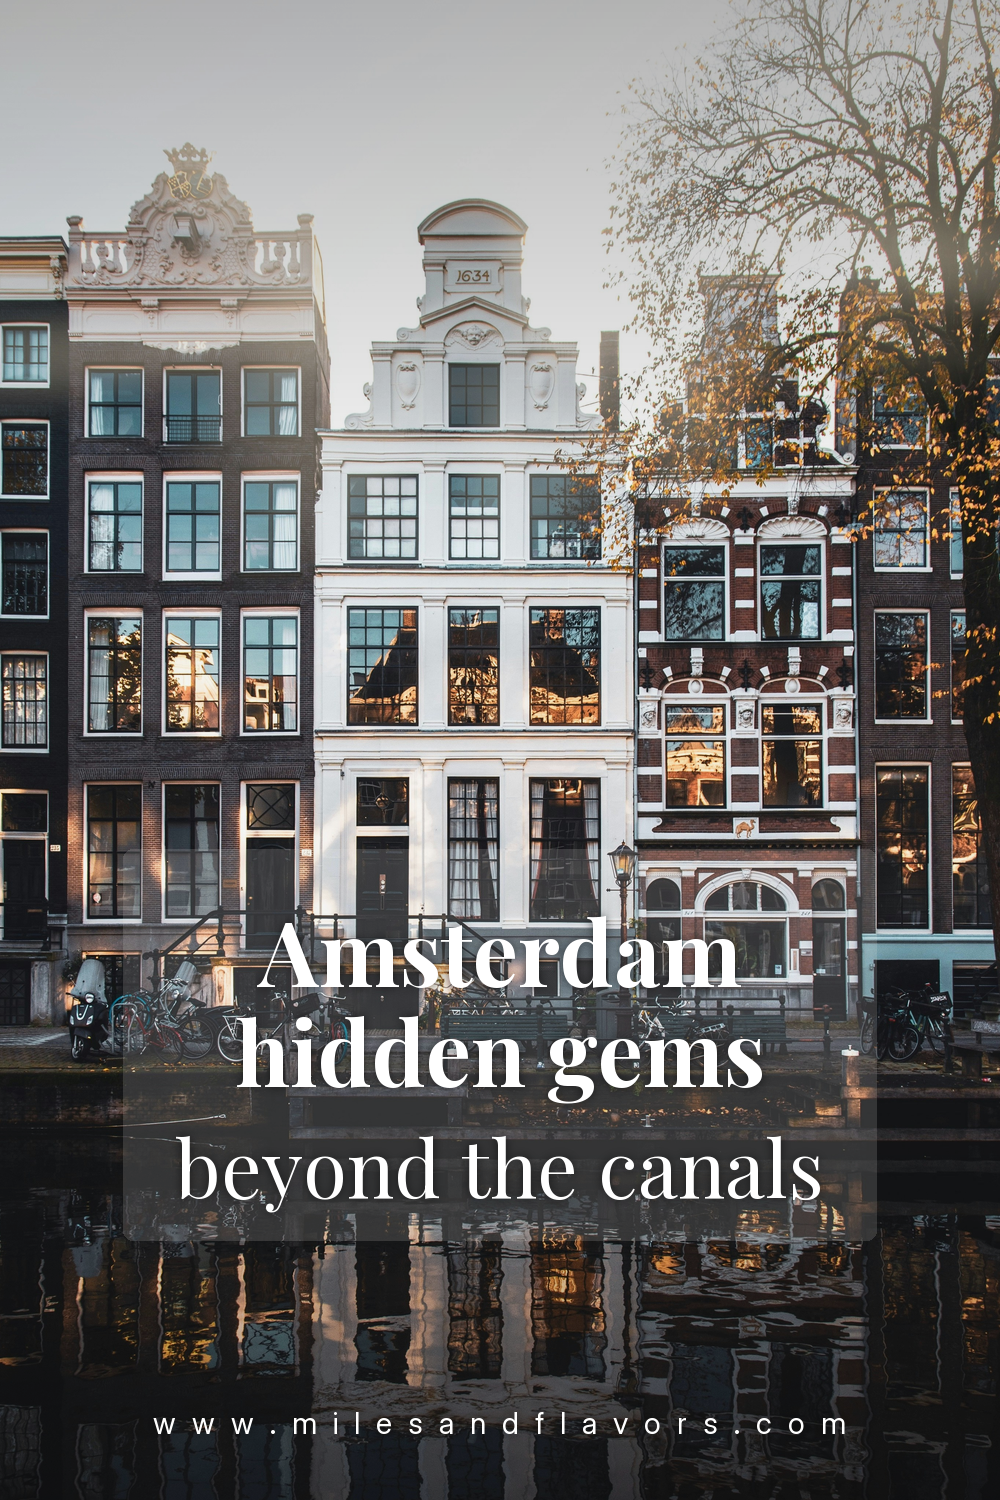
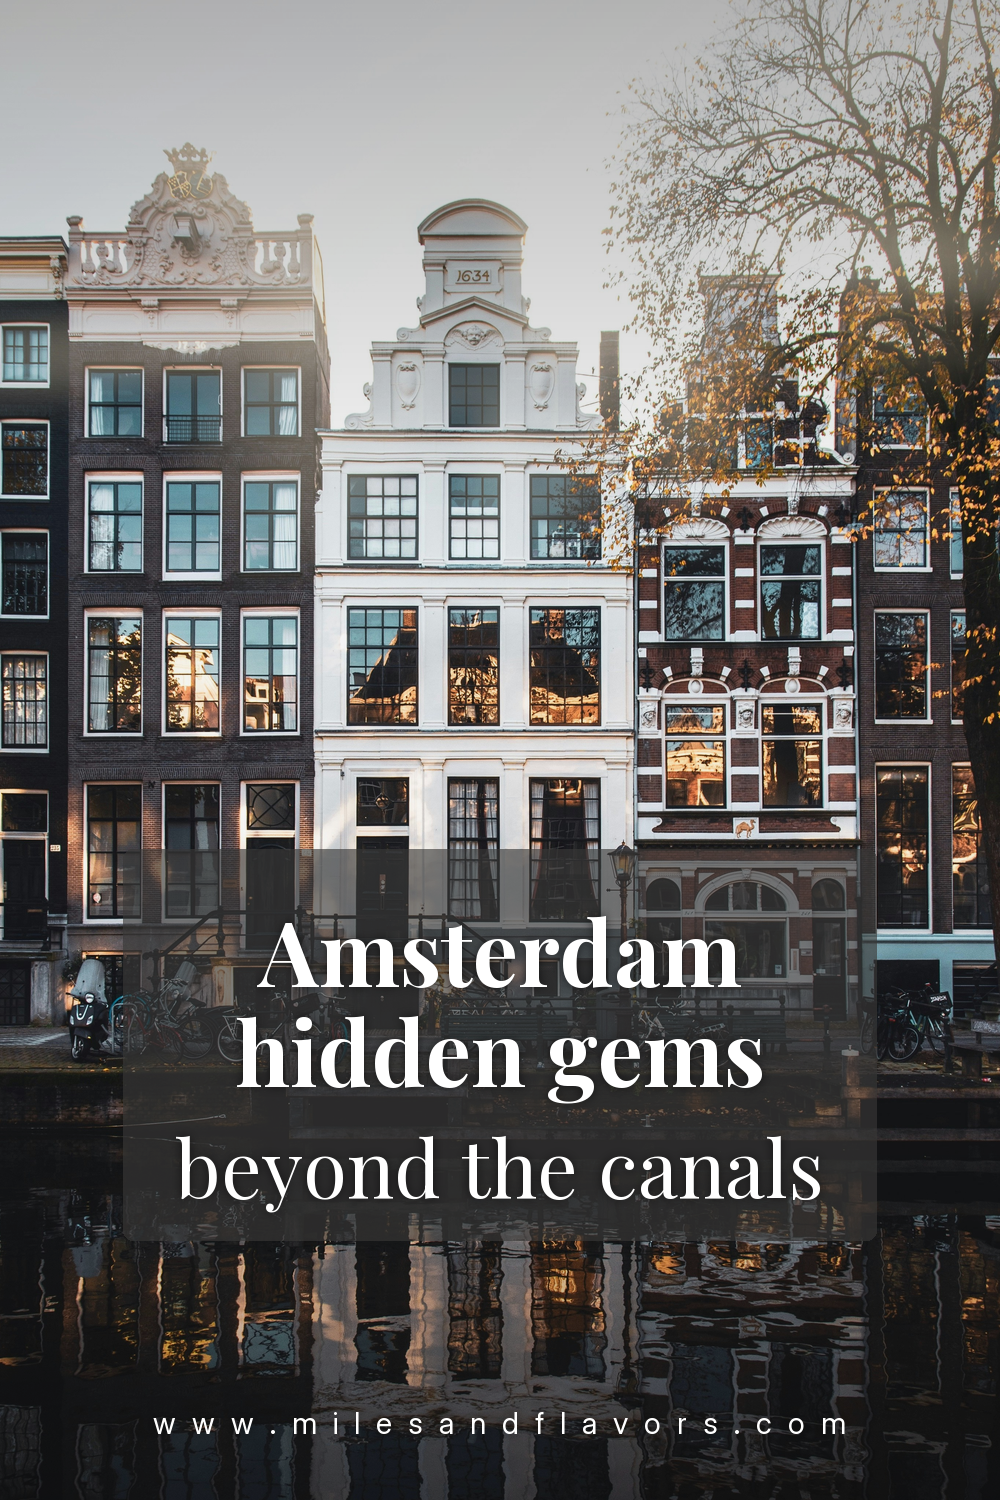
Pin tweaks: Marsa Alam + cheap flights box top; Barcelona/Dolomites/Amsterdam darker box

diff --git a/render.py b/render.py
@@ -116,7 +116,7 @@ def wrap(draw, text, fnt, maxw):
             lo = mid
     return _greedy(draw, words, fnt, best)
 
-def render_pin(template, bold, light, url, photos):
+def render_pin(template, bold, light, url, photos, dark=False):
     base = Image.new("RGBA", (W, H), (0, 0, 0, 255))
     # ---- photos ----
     if template == "Split" and len(photos) >= 2:
@@ -165,6 +165,7 @@ def render_pin(template, bold, light, url, photos):
     mean = base.crop(box).convert("L").resize((1, 1)).getpixel((0, 0))  # average luminance 0-255
     a = max(0.0, min(0.58, (mean - 70) / 150))
     if busy: a = max(a, 0.46)
+    if dark: a = max(0.58, min(0.82, (mean - 20) / 150))   # stronger scrim for hard-to-read photos
     base = Image.alpha_composite(base, rrect_layer(box, (0, 0, 0, int(a * 255))))
     base = Image.alpha_composite(base, rrect_layer(box, (242, 239, 234, 38)))   # subtle frosted tint on top
     d = ImageDraw.Draw(base)
@@ -203,6 +204,8 @@ def main():
         url = r[col["URL"]]; slug = url.replace("https://milesandflavors.com/", "").strip("/")
         if only and only != slug and only != cluster(slug): continue
         template = r[col["Template"]]; need = int(r[col["Photos"]])
+        dark = template.endswith(" dark")
+        if dark: template = template.replace(" dark", "")
         bold = r[col["Pin bold (vastag)"]]; light = r[col["Pin light (vekony)"]]
         pin_no = r[col["Pin #"]]; datum = r[col["Datum"]]; idop = r[col["Idopont"]]
         board = r[col["Board"]]; pcim = r[col["Pin cim"]]; pdesc = r[col["Pin leiras"]]
@@ -223,7 +226,7 @@ def main():
         start = (int(pin_no) - 1) % len(files)
         chosen = [files[(start + k) % len(files)] for k in range(need)]
         photos = [load(p) for p in chosen]
-        img = render_pin(template, bold, light, "www.milesandflavors.com", photos)
+        img = render_pin(template, bold, light, "www.milesandflavors.com", photos, dark=dark)
         fname = f"{datum}_{idop.replace(':','-')}_{slug}_pin{pin_no}.png"
         img.save(os.path.join(DONE, fname), "PNG")
         sched.append([datum, idop, fname, board, pcim, pdesc, url])
